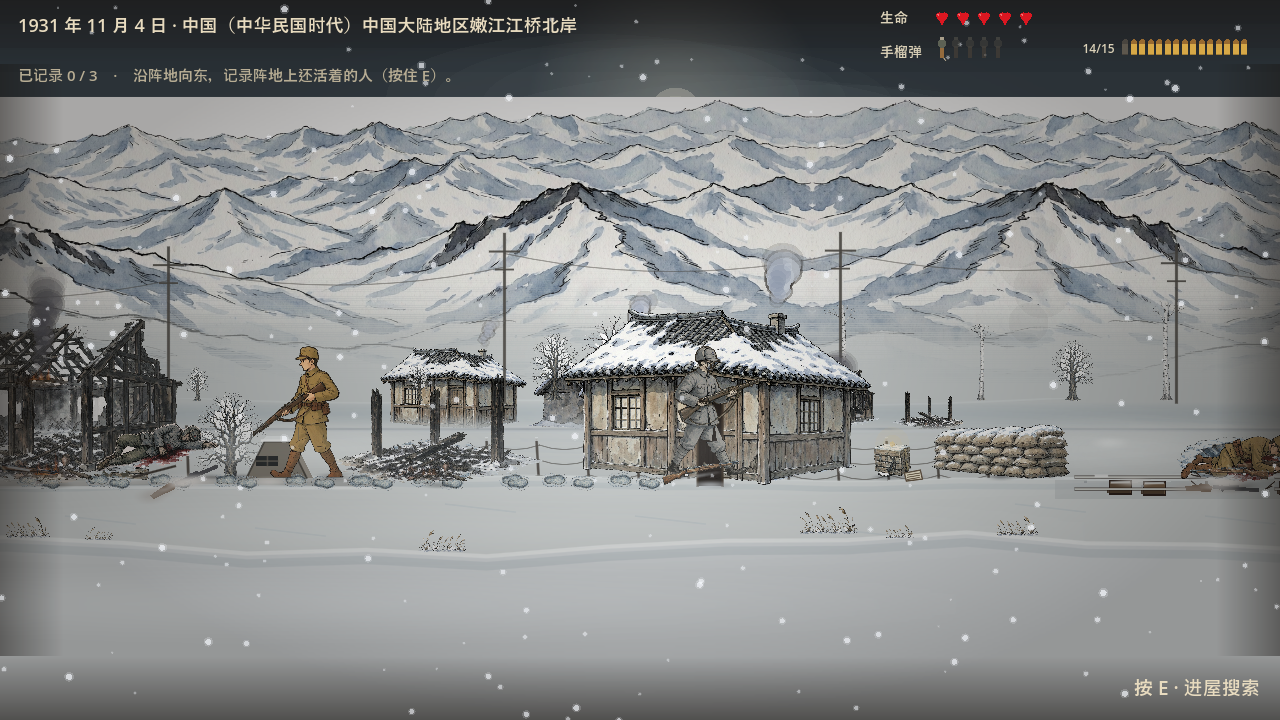
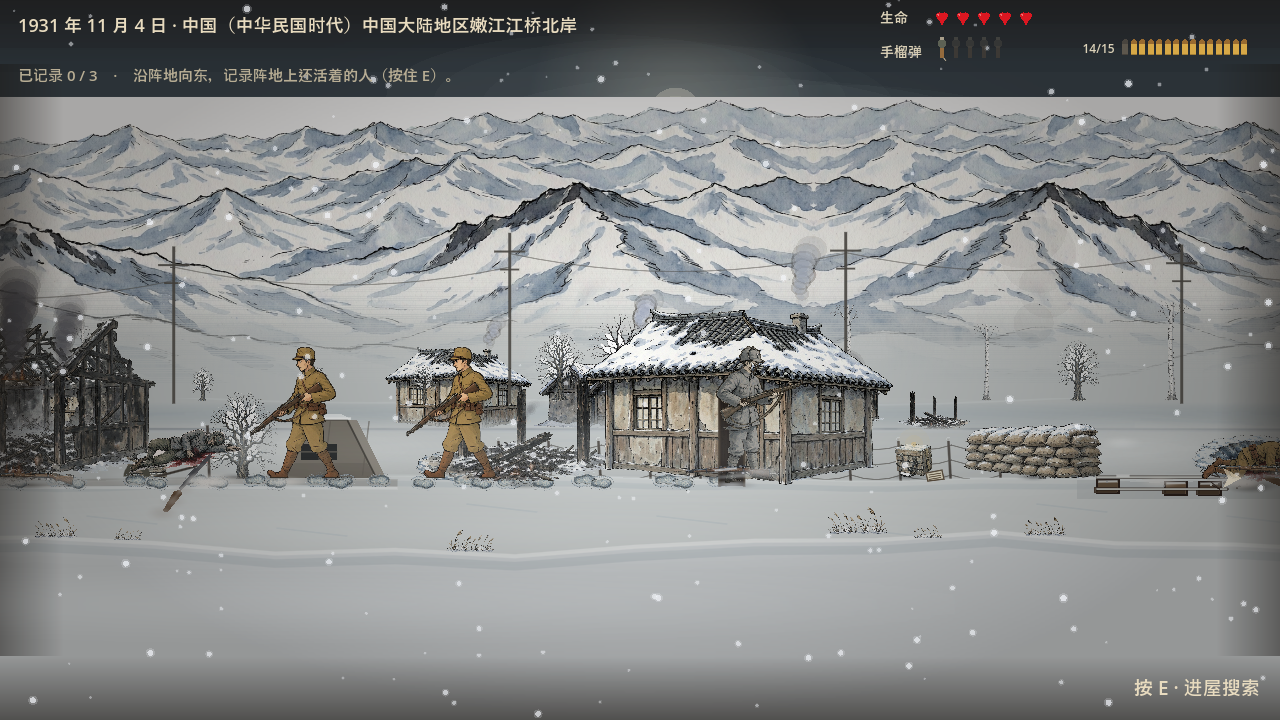
v3.17 rails onto the bridge, white-base cleanup, corpse and bunker scale
The rails and the bridge were never connected. DrawBridge() parked texture row 430 on the rail line because the note claimed the deck sits at 53% of the texture height, but a row scan of bridge.png says the truss runs 0-340, the railing 340-365, the rail-bearing deck 365-400, the pier caps 400-440 and the piers 440-803 - row 430 is already inside the pier zone. The deck therefore floated 40px above the rails and the track ran across the frozen river band underneath the span, reading as a line that had nothing to do with the bridge. Row 355 is the rail-bearing surface, so that is what now lands on the rail line and the track walks onto the deck.

White base cleanup, part two. tree_elm.png still had 94000 opaque white pixels filling the space between the branches - the original background that the cut-out never removed, which turns into a pale halo once the tree is scaled down for the mid tree line. New rule for that case: treat anything darker than 170 luminance as branch, measure the chamfer distance, and cut every bright pixel further than 6px from a branch. The canopy opens up while the branches and the snow still clinging to them stay. The bridge still had 13225 near-white specks and a translucent white veil above the deck line - that is the mismatch the player could see against the mountain, and 22953px of it just went transparent.
[…]

diff --git a/scripts/JiangqiaoLevel.cs b/scripts/JiangqiaoLevel.cs
@@ -2168,15 +2168,19 @@ public partial class JiangqiaoLevel : Node2D
             }
 
             // 废弃的辎重车（半埋进雪里）
+            // v3.17: the comment always said "half buried in the snow", but
+            // the wheels were 24px above the ground line - the whole cart
+            // floated and read as a sticker laid over the snow. Dropped it
+            // 30px so the wheels sink 6px into the drift.
             var cx = 1760f;
-            DrawRect(new Rect2(cx, 592, 74, 24), new Color(0.40f, 0.32f, 0.23f));
-            DrawRect(new Rect2(cx, 592, 74, 24), new Color(0.26f, 0.21f, 0.16f, 0.7f), false, 1.2f);
-            DrawRect(new Rect2(cx - 4, 584, 86, 8), new Color(0.92f, 0.94f, 0.94f, 0.9f));
-            DrawCircle(new Vector2(cx + 14, 620), 11f, new Color(0.24f, 0.22f, 0.20f));
-            DrawCircle(new Vector2(cx + 14, 620), 4f, new Color(0.48f, 0.42f, 0.34f));
-            DrawCircle(new Vector2(cx + 60, 620), 11f, new Color(0.24f, 0.22f, 0.20f));
-            DrawLine(new Vector2(cx + 70, 592), new Vector2(cx + 104, 570), new Color(0.36f, 0.29f, 0.20f), 4f, true);
-            DrawLine(new Vector2(cx + 68, 589), new Vector2(cx + 104, 567), new Color(0.90f, 0.92f, 0.92f, 0.7f), 2f, true);
+            DrawRect(new Rect2(cx, 622, 74, 24), new Color(0.40f, 0.32f, 0.23f));
+            DrawRect(new Rect2(cx, 622, 74, 24), new Color(0.26f, 0.21f, 0.16f, 0.7f), false, 1.2f);
+            DrawRect(new Rect2(cx - 4, 614, 86, 8), new Color(0.92f, 0.94f, 0.94f, 0.9f));
+            DrawCircle(new Vector2(cx + 14, 650), 11f, new Color(0.24f, 0.22f, 0.20f));
+            DrawCircle(new Vector2(cx + 14, 650), 4f, new Color(0.48f, 0.42f, 0.34f));
+            DrawCircle(new Vector2(cx + 60, 650), 11f, new Color(0.24f, 0.22f, 0.20f));
+            DrawLine(new Vector2(cx + 70, 622), new Vector2(cx + 104, 600), new Color(0.36f, 0.29f, 0.20f), 4f, true);
+            DrawLine(new Vector2(cx + 68, 619), new Vector2(cx + 104, 597), new Color(0.90f, 0.92f, 0.92f, 0.7f), 2f, true);
         }
 
         /// <summary>
@@ -2596,8 +2600,14 @@ public partial class JiangqiaoLevel : Node2D
             foreach (float bx in new[] { 1550f, 3835f })
             {
                 bxList.Add(bx + rng.RandfRange(-8f, 8f));
-                bwList.Add(56f + rng.RandfRange(-4f, 8f));
-                fhList.Add(38f + rng.RandfRange(-5f, 5f));
+                // v3.17: 56x38 was barely a third of the player's height, so
+                // the bunker read as a distant shed. Standing next to a body
+                // it made the corpse look oversized and left the player
+                // guessing which plane either object was on. A real earthwork
+                // emplacement is chest-high on a 108px soldier - 96 wide,
+                // 62 tall puts it exactly there.
+                bwList.Add(96f + rng.RandfRange(-6f, 10f));
+                fhList.Add(62f + rng.RandfRange(-6f, 6f));
             }
             _bunkerX = bxList.ToArray();
             _bunkerBW = bwList.ToArray();
@@ -2989,14 +2999,20 @@ public partial class JiangqiaoLevel : Node2D
                 float bh = 420f;
                 float bw = bh * bsz.X / bsz.Y;
                 float bx = start + (end - start - bw) * 0.5f;
-                // v3.0 seat fix: measured the texture with a pixel scan - the
-                // deck / bottom chord sits at 53% of the texture height, piers
-                // run down to ~87%. The old rect parked the texture bottom at
-                // GroundY+168, which left the chord floating 30px ABOVE the
-                // rail line - that gap was the "levitating bridge". Now the
-                // chord top lands exactly on railY so the rails run onto the
-                // deck and the pier feet bury below the ice.
-                DrawTextureRect(_bridgeTex, new Rect2(bx, GroundY - 2f - 0.53f * bh, bw, bh), false);
+                // v3.17 seat fix: the old note claimed the deck sits at 53% of
+                // the texture height and put row 430 on the rail line. A row
+                // scan of bridge.png says otherwise - the truss runs 0-340,
+                // the railing 340-365, the rail-bearing deck 365-400, the pier
+                // caps 400-440 and the piers 440-803. So the old factor parked
+                // the deck 40px ABOVE the rails: the track ran across the
+                // frozen river band under the bridge instead of along its
+                // deck, which is what made the two look like they had
+                // nothing to do with each other. Seat row 355 on the rail
+                // line instead and the rails run onto the bridge.
+                const float deckRow = 355f;
+                float scale = bh / bsz.Y;
+                float rectTop = (GroundY - 1f) - deckRow * scale;
+                DrawTextureRect(_bridgeTex, new Rect2(bx, rectTop, bw, bh), false);
 
                 // v3.15: the code-drawn west abutment is gone for good. It was
                 // a flat grey slab with no texture, parked about 100px left of
@@ -3200,55 +3216,73 @@ public partial class JiangqiaoLevel : Node2D
                 float bx = _bunkerX[bi];
                 float bw = _bunkerBW[bi];
                 float fh = _bunkerFH[bi];
+                float k = bw / 56f;   // the shape below was drawn against a 56 wide bunker
                 // 接触阴影（先画，在碉堡下面）
-                SnowShadow.Draw(this, new Vector2(bx + 24f, GroundY - 1f), 40f, 0.28f);
+                SnowShadow.Draw(this, new Vector2(bx + 24f * k, GroundY - 1f), 40f * k, 0.28f);
 
                 // 碉堡本体：梯形（前窄后宽）
                 var bunker = new[]
                 {
-                    new Vector2(bx + 28f, GroundY),
-                    new Vector2(bx + bw + 28f, GroundY),
-                    new Vector2(bx + bw + 10f, GroundY - fh),
-                    new Vector2(bx + 46f, GroundY - fh),
+                    new Vector2(bx + 28f * k, GroundY),
+                    new Vector2(bx + bw + 28f * k, GroundY),
+                    new Vector2(bx + bw + 10f * k, GroundY - fh),
+                    new Vector2(bx + 46f * k, GroundY - fh),
                 };
                 DrawColoredPolygon(bunker, new Color(0.48f, 0.46f, 0.42f));
+                // v3.17: it was one flat polygon with nothing on it, so the
+                // bunker read as a grey sticker dropped on the snow. Add the
+                // concrete joints and the weather stain so it reads as a
+                // poured earthwork instead.
+                for (int j = 1; j <= 2; j++)
+                {
+                    float jx = bx + (28f + bw * 0.26f * j) * k;
+                    DrawLine(new Vector2(jx, GroundY - 3f), new Vector2(jx + 4f * k, GroundY - fh + 2f),
+                        new Color(0.36f, 0.34f, 0.31f, 0.55f), 1.3f, true);
+                }
+                DrawColoredPolygon(new[]
+                {
+                    new Vector2(bx + 28f * k, GroundY),
+                    new Vector2(bx + bw + 28f * k, GroundY),
+                    new Vector2(bx + bw + 22f * k, GroundY - fh * 0.26f),
+                    new Vector2(bx + 34f * k, GroundY - fh * 0.26f),
+                }, new Color(0.40f, 0.38f, 0.35f, 0.55f));
                 // 侧面受光（高光条）
                 var hl = new[]
                 {
-                    new Vector2(bx + bw + 10f, GroundY - fh),
-                    new Vector2(bx + bw + 28f, GroundY),
-                    new Vector2(bx + bw + 34f, GroundY),
-                    new Vector2(bx + bw + 16f, GroundY - fh),
+                    new Vector2(bx + bw + 10f * k, GroundY - fh),
+                    new Vector2(bx + bw + 28f * k, GroundY),
+                    new Vector2(bx + bw + 34f * k, GroundY),
+                    new Vector2(bx + bw + 16f * k, GroundY - fh),
                 };
                 DrawColoredPolygon(hl, new Color(0.58f, 0.56f, 0.52f));
                 // 碉堡描边
                 DrawPolyline(new[]
                 {
-                    new Vector2(bx + 28f, GroundY), new Vector2(bx + 46f, GroundY - fh),
-                    new Vector2(bx + bw + 10f, GroundY - fh), new Vector2(bx + bw + 28f, GroundY),
+                    new Vector2(bx + 28f * k, GroundY), new Vector2(bx + 46f * k, GroundY - fh),
+                    new Vector2(bx + bw + 10f * k, GroundY - fh), new Vector2(bx + bw + 28f * k, GroundY),
                 }, new Color(0.20f, 0.19f, 0.17f, 0.85f), 1.6f, true);
 
                 // 射击孔（暗色长条 + 十字线表示射击位）
-                float spx = bx + 38f; float spy = GroundY - 22f;
-                DrawRect(new Rect2(spx, spy, 22, 10), new Color(0.08f, 0.09f, 0.10f, 0.95f));
-                DrawLine(new Vector2(spx + 11, spy), new Vector2(spx + 11, spy + 10),
+                float spx = bx + 38f * k; float spy = GroundY - fh * 0.58f;
+                DrawRect(new Rect2(spx, spy, 22f * k, 10f * (fh / 38f)), new Color(0.08f, 0.09f, 0.10f, 0.95f));
+                DrawLine(new Vector2(spx + 11f * k, spy), new Vector2(spx + 11f * k, spy + 10f * (fh / 38f)),
                     new Color(0.40f, 0.38f, 0.34f, 0.7f), 1.4f, true);
-                DrawLine(new Vector2(spx, spy + 5), new Vector2(spx + 22, spy + 5),
+                DrawLine(new Vector2(spx, spy + 5f * (fh / 38f)), new Vector2(spx + 22f * k, spy + 5f * (fh / 38f)),
                     new Color(0.40f, 0.38f, 0.34f, 0.7f), 1.4f, true);
 
                 // 碉堡顶上的积雪（梯形积雪帽）
                 var snow = new[]
                 {
-                    new Vector2(bx + 43f, GroundY - fh - 1),
-                    new Vector2(bx + bw + 12f, GroundY - fh - 1),
-                    new Vector2(bx + bw + 6f, GroundY - fh - 6),
-                    new Vector2(bx + 49f, GroundY - fh - 6),
+                    new Vector2(bx + 43f * k, GroundY - fh - 1),
+                    new Vector2(bx + bw + 12f * k, GroundY - fh - 1),
+                    new Vector2(bx + bw + 6f * k, GroundY - fh - 6),
+                    new Vector2(bx + 49f * k, GroundY - fh - 6),
                 };
                 DrawColoredPolygon(snow, new Color(0.92f, 0.94f, 0.94f, 0.9f));
                 DrawPolyline(new[]
                 {
-                    new Vector2(bx + 43f, GroundY - fh - 1),
-                    new Vector2(bx + bw + 12f, GroundY - fh - 1),
+                    new Vector2(bx + 43f * k, GroundY - fh - 1),
+                    new Vector2(bx + bw + 12f * k, GroundY - fh - 1),
                 }, new Color(0.98f, 0.99f, 0.99f), 2.2f, true);
 
                 // 碉堡旁边的铁丝网桩（一根木桩 + 一根铁丝连到远处）

diff --git a/scripts/CorpseActor.cs b/scripts/CorpseActor.cs
@@ -25,12 +25,15 @@ public partial class CorpseActor : Node2D
     private static readonly Dictionary<string, Texture2D> _texCache = new();
 
     // world body length per texture, hand-tuned so both factions read same scale
+    // v3.17: a body lying down should read about as long as the standing
+    // soldier is tall (108px), not longer. At 122-138 a body next to anything
+    // smaller than it read as a giant. Trimmed about 10%.
     private static readonly Dictionary<string, float> _texLen = new()
     {
-        ["corpse_na_prone"] = 128f,
-        ["corpse_na_supine"] = 122f,
-        ["corpse_ija_prone"] = 138f,
-        ["corpse_ija_supine"] = 122f,
+        ["corpse_na_prone"] = 116f,
+        ["corpse_na_supine"] = 110f,
+        ["corpse_ija_prone"] = 124f,
+        ["corpse_ija_supine"] = 112f,
     };
 
     public CorpseActor(Faction faction, Vector2 position, bool facingRight, float rotJitter = -1f,

diff --git a/README.md b/README.md
@@ -172,6 +172,29 @@
 - **离屏指引箭头收敛**：纸色箭头透明度 0.9→0.55、缩小约 25%——它扫过场景道具（比如正压在拾取枪上）时不再像场景里的一部分，一眼可辨是 HUD 提示。
 - **图库全量实机刷新（11/11）**：新增 `scripts/CaptureMap.cs` + `scenes/CaptureMap.tscn` 自动巡游标题屏与大地图全流程（读两张纸条→路线显影，结束后还原存档的已读状态），v00–v04 五张 v3.1 时代的旧图全部换成实机新图；v46–v51 六张关卡图同批重拍。README 截图缓存戳统一升到 `?v=3.11`。
 
+### v3.17 铁轨爬桥 + 白底收尾 + 尸体/碉堡比例修正
+
+> 用户复检：「白底的图好像没有完全彻底扣完，看起来就跟背景雪山的底色不同调」「那个尸体，如果你表示死在背景，那么人物比例就大了一点，不协调；如果是死在前面就位置不协调」「树木的那些背景白底也是没有抠干净，很明显」「那个桥和雪地上的那些铁轨不协调吧」。
+
+- **① 铁轨与桥面错位 40px（真 bug）**：`DrawBridge()` 里写着"贴图 53% 处是桥面"，于是把贴图第 430 行摆到了轨道线上。但逐行扫描 bridge.png 的实际结构是：**桁架 0–340、栏杆 340–365、承轨的桥面 365–400、墩帽 400–440、桥墩 440–803**——53% 那一行早就在桥墩区里了。结果**桥面比轨道高 40px**，铁轨从桥下的河面横穿过去，看着像跟桥毫无关系的另一条线。现在按实测把**第 355 行（承轨面）**对到轨道线上，铁轨连续爬上桥。
+- **② 榆树的树冠白块**：`tree_elm.png` 的树冠之间还压着 9.4 万 px **不透明纯白**（抠图残留的原始白色背景），缩到游戏尺寸后就是一团**白晕**糊在枝干上。改用**"离枝干越远越该抠"**的判据：把亮度低于 170 的像素当作枝干骨架，算倒角距离，**距离枝干 > 6px 的亮像素一律抠掉**——树冠之间透空，枝干与枝上残留的雪絮原样保留。白桦贴图本身干净（白的是树皮），不动。
+- **③ 桁架里剩下的白纱**：桥面线以上还剩 13225 px 近白碎点与**半透明白纱**（就是"跟背景雪山底色不同调"的那层 veil）。按亮度 ≥ 168 且低饱和（≤ 66）再扫一遍，清掉 **22953 px**，钢构件与铆钉无损。
+- **④ 尸体比例**：一具躺着的尸体长度应当和站着的士兵身高（108px）相当，原来却是 122–138px，**比站着的人还长**，旁边任何小东西都会被它压过去。整体收 **10%**（110–124px）。
+- **⑤ 碉堡放大**：碉堡只有 56×38（**不到士兵三分之一高**），看着像远处的小棚子——和 130px 的尸体并排时，人眼根本分不出谁在哪个景深上。现在放大到 **96×62**（齐胸高的土木碉堡），并补上**混凝土接缝与底部污渍**，不再是一块平涂灰板。
+- **⑥ 废弃辎重车落地**：代码注释一直写着"半埋进雪里"，实际轮子却**悬在地面上方 24px**，整车像贴纸浮在雪上。整体下沉 30px，轮子陷入雪里 6px。
+- **⑦ 地图页五张图实测差异 0.00%–0.19%，与本次无关，一张未动**；六张关卡图重拍并把缓存戳升到 `?v=3.17`。
+
+| 项目 | 改动前 | 改动后 |
+|------|--------|--------|
+| 铁轨 ↔ 桥面 | 桥面比轨道高 40px，铁轨从桥下的河面横穿 | 承轨面落在轨道线上，铁轨连续爬上桥 |
+| 桁架残留白纱 | 13225 px 近白碎点 + 半透明白纱 | 清掉 22953 px，钢构件无损 |
+| 榆树树冠 | 树冠之间压着 9.4 万 px 不透明纯白 | 全透空，只剩枝干与枝上雪絮 |
+| 尸体长度 | 122–138px（比站立士兵还长） | 110–124px，与士兵身高相当 |
+| 碉堡 | 56×38，不到士兵三分之一高，平涂灰板 | 96×62 齐胸高，加混凝土接缝与污渍 |
+| 废弃辎重车 | 悬在地面上方 24px | 轮子陷入雪里 6px |
+
+> **那两个"不认识的东西"是什么**：① 沙包后面那块**灰色方块** = 代码画的**土木碉堡**（梯形混凝土 + 射击孔 + 积雪帽）；② 后面那个**像拖车的东西** = 代码画的**废弃辎重车**（车斗 + 两只车轮 + 车把）。
+
 ### v3.16 白板根修收尾：桁架全透空 + 房屋开口透空 + 雪化带无硬边
 
 > 用户复检：「这边有白白的，而且这样看起来就是贴纸这样的东西」「那个后面拖车的东西是什么来的」「很多地方和细节你都没有扣干净，因为那些烧光或者透视的地方应该是可以直接看到背后的东西，但却有白色的贴图拦着」。
@@ -314,6 +337,7 @@
 
 | 版本 | 要点 |
 |------|------|
+| v3.17 | 铁轨爬桥 + 白底收尾 + 尸体/碉堡比例修正：①铁轨与桥面错位 40px 的真 bug（代码按「贴图 53% 处是桥面」摆放，实测承轨面在第 355 行）→ 改为把第 355 行对到轨道线，铁轨连续爬上桥；②tree_elm 树冠间 9.4 万 px 不透明纯白 → 用「离枝干 > 6px 的亮像素一律抠掉」判据，树冠透空、枝干与枝上雪絮保留；③桁架里 13225 px 近白碎点与半透明白纱再清 22953 px；④尸体长度收 10%（122-138 → 110-124，与士兵身高相当）；⑤碉堡放大 56×38 → 96×62（齐胸高）并加混凝土接缝与污渍，不再是平涂灰板；⑥废弃辎重车整体下沉 30px，轮子陷入雪里 6px；⑦地图五图零差异未动 |
 | v3.16 | 白板根修收尾：①v3.15 只抓「平坦纯白」漏了带渐变的板 → 改为「平坦纯白种籽 + 向内泛洪 + 形态学开运算 + 几何分界保护积雪」，bridge 62031 px / 烧毁屋 44976 px / 骨架屋 66094 px 转透明；②桥面线 y=334.8+0.0588x 以上才算该透空的天空，桥面雪与桥墩原样保留；③house_ruined_near 屋顶积雪同为平坦白，套用会挖穿屋顶，刻意不动；④远景房脚与树脚的 VGradient 矩形雪化带（左右边笔直的白板）换成四边渐隐的 SoftSnow.MeltBand，VGradient 随之删除；⑤远景 4180 那栋缩小的烧毁屋不再是「拖车」状怪东西；⑥地图五图实测零差异未动 |
 | v3.15 | 钢桁架透空 + 桥西端灰方块根修：①沙包旁那块灰方块是代码画的西桥台（平涂灰、无纹理），与贴图自带的混凝土桥墩错位约 100px 还切断桁架左腿 → 整段删除，改由贴图桥墩承托；②bridge.png 抠图残留 30 块平坦纯白"天空板"（局部 std<3 且均值>240），把桥洞后面的雪山全挡死 → 像素级按"竖长条"连通域抠成透明并扩 2px 吃抗锯齿边，桥面积雪与墩顶雪帽自动保留；③Capture 取景阈值 2760→4300，v50 每轮稳定停在桥上；④其余五张关卡图镜头在桥外，与本次无关，一张未动 |
 | v3.14 | 标题屏渲染根修：CaptureMap.SwapTo 漏了 Main.Swap 的 `SetAnchorsAndOffsetsPreset(FullRect)`，TitleScreen 保持 0×0 尺寸 → 背景长城照片没铺开、标题与四个菜单按钮整列挤到左上角（游戏代码自 v3.1 未动，是截图脚本拍坏了）；补上同一句后标题 x 中心 528→639（画布中心 640）、按钮 319→631，地图四图实测零差异，只重拍覆盖 v00_title.png，其余十张图与缓存戳不动 |
@@ -408,27 +432,27 @@
 
 **雪原全景 · 同款画风背景贴图合成四层视差（雪山 / 村落 / 树 / 草，layer by layer 厚度感）**
 
-![雪原全景](docs/screenshots/v46_jq_scene.png?v=3.16)
+![雪原全景](docs/screenshots/v46_jq_scene.png?v=3.17)
 
 **立姿据枪 · 枪托抵肩贴腮瞄准 + 枪口火光对齐枪管尖**
 
-![立姿据枪](docs/screenshots/v47_jq_fire.png?v=3.16)
+![立姿据枪](docs/screenshots/v47_jq_fire.png?v=3.17)
 
 **跪蹲持枪 · 军事标准跪姿（S 键）**
 
-![跪蹲持枪](docs/screenshots/v48_jq_crouch.png?v=3.16)
+![跪蹲持枪](docs/screenshots/v48_jq_crouch.png?v=3.17)
 
 **低姿匍匐 · 军事条令低姿匍匐前进（Ctrl/C 键）**
 
-![低姿匍匐](docs/screenshots/v49_jq_prone.png?v=3.16)
+![低姿匍匐](docs/screenshots/v49_jq_prone.png?v=3.17)
 
 **完好房屋 · 烟囱动态炊烟（贴图静态烟已抹除，只剩程序化动态烟）**
 
-![烟囱动态炊烟](docs/screenshots/v51_jq_chimney.png?v=3.16)
+![烟囱动态炊烟](docs/screenshots/v51_jq_chimney.png?v=3.17)
 
 **焚毁村落 · 焦柱断壁 + 动态黑烟 + 残火（程序化演出，非贴图）**
 
-![焚毁村落](docs/screenshots/v50_jq_burnt.png?v=3.16)
+![焚毁村落](docs/screenshots/v50_jq_burnt.png?v=3.17)
 
 ## 如何运行（小白版，3 步）
 
